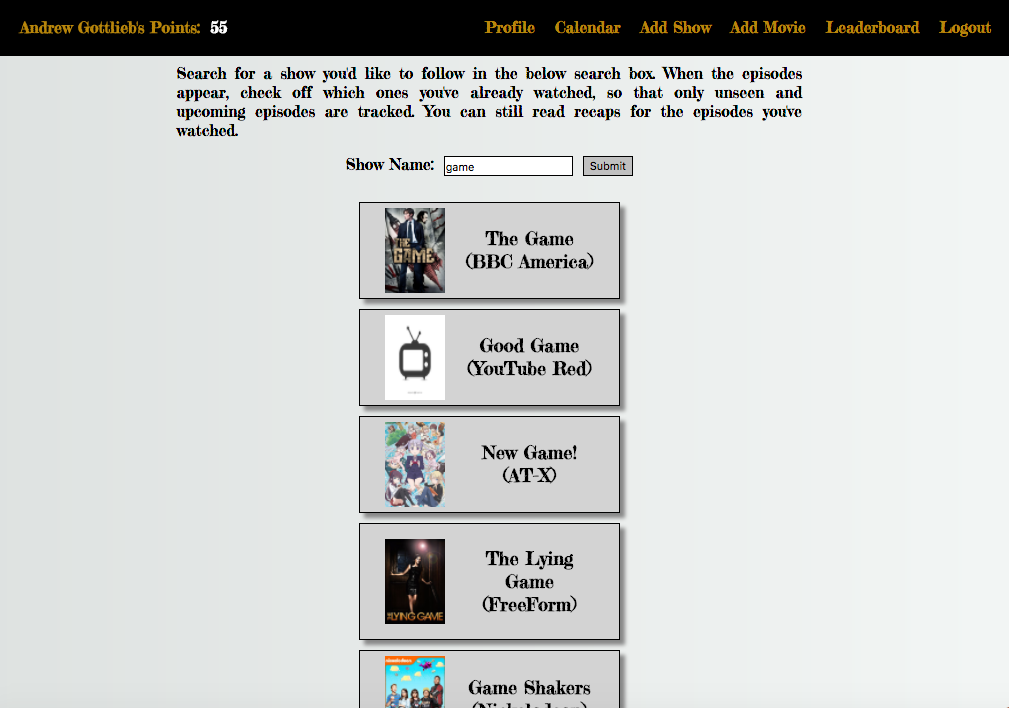
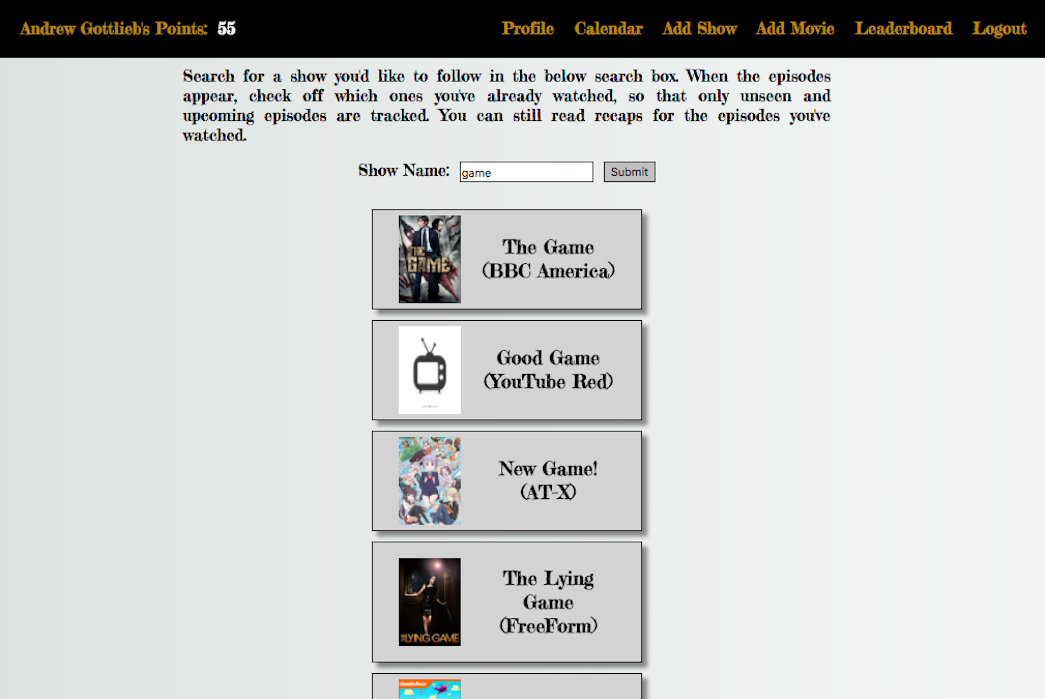
styled contact section and adjusted project image sizes

Changed region(s): [[0.338, 0.2103, 0.6452, 1.0], [0.0, 0.03, 1.0, 0.2103]]

diff --git a/index.html b/index.html
@@ -105,11 +105,11 @@
         <br/>
         <br/>
         <h1 class="projects-title">PROJECTS</h1>
-        <h2 class="projectsSubHeading">(Hover over image for more info)</h2>
+        <h2 class="projectsSubHeading">(Click image for more info)</h2>
         <div class="row">
-            <div class="project" id="mediaddict">
+            <div class="project">
                 <div class="imagebox">
-                    <img src="./images/mediaddict.png">
+                    <img src="./images/mediaddict.png" id="mediaddict">
                 </div>
                 <h3>MEDIADDICT</h3>
                 <div class="project-links">
@@ -117,9 +117,9 @@
                     <a href="http://mediaddict.surge.sh"><img src="./images/link.png"></a>
                 </div>
             </div>
-            <div class="project" id="pels">
+            <div class="project">
                 <div class="imagebox">
-                    <img src="./images/pels.png">
+                    <img src="./images/pels.png" id="pels">
                 </div>
                 <h3>PELS PIES</h3>
                 <div class="project-links">
@@ -129,9 +129,9 @@
             </div>
         </div>
         <div class="row">
-            <div class="project" id="bandessentials">
+            <div class="project">
                 <div class="imagebox">
-                    <img src="./images/band.png">
+                    <img src="./images/band.png" id="bandessentials">
                 </div>
                 <h3>BAND ESSENTIALS</h3>
                 <div class="project-links">
@@ -139,9 +139,9 @@
                     <a href="https://bandessentials.herokuapp.com/"><img src="./images/link.png"></a>
                 </div>
             </div>
-            <div class="project" id="scrabble">
+            <div class="project">
                 <div class="imagebox">
-                    <img src="./images/scrabble.png">
+                    <img src="./images/scrabble.png" id="scrabble">
                 </div>
                 <h3>SCRABBLE</h3>
                 <div class="project-links">
@@ -158,7 +158,7 @@
         <br/>
         <br/>
         <br/>
-        <h1>CONTACT ME</h1>
+        <h1 class="contact-title">CONTACT ME</h1>
         <p class="smallText">Email: agottlie@gmail.com</p>
         <p class="smallText">Phone: 845-641-1004</p>
         <div class="social">

diff --git a/js/main.js b/js/main.js
@@ -1,4 +1,22 @@
 $(() => {
     console.log('js connected');
 
+    const mediapics = ["./images/mediaddict.png", "./images/twinpeaks.png", "./images/addshow.png", "./images/leaderboard.png"],
+    	pelspics = ["./images/pels.png", "./images/map.png", "./images/events.png", "./images/order.png"],
+    	bandpics = ["./images/band.png", "./images/mainpage.png", "./images/profile.png", "./images/explore.png"],
+    	scrabblepics = ["./images/scrabble.png", "./images/Instructions.png", "./images/inplay.png", "./images/Letters.png"];
+
+    let count = 0;
+    setInterval(function() {
+    	count++;
+    	if (count===4) {
+    		count=0;
+    	}
+    	$("#pels").attr("src", pelspics[count]);
+    	$("#mediaddict").attr("src", mediapics[count]);
+    	$("#bandessentials").attr("src", bandpics[count]);
+    	$("#scrabble").attr("src", scrabblepics[count]);
+
+    }, 1000);
+
 })

diff --git a/css/style.css b/css/style.css
@@ -38,7 +38,7 @@ body {
 }
 
 .name {
-    font-size: 25px;
+    font-size: 2vw;
     margin-left: 20px;
 }
 
@@ -49,7 +49,7 @@ body {
 li>a {
     text-decoration: none;
     color: gray;
-    font-size: 25px;
+    font-size: 2vw;
 }
 
 li {
@@ -180,7 +180,7 @@ li {
 }
 
 .project-links>a>img {
-	width: 30px;
+	width: 40px;
 	margin-bottom: 50px;
 }
 
@@ -188,3 +188,28 @@ li {
 	text-align: center;
 }
 
+
+/*------END PROJECTS-----------*/
+
+
+/*------------CONTACT-------------*/
+
+.contact-title {
+	text-align: center;
+}
+
+#contact>p {
+	text-align: center;
+}
+
+.social {
+	text-align: center;
+}
+
+.social>div {
+	display: inline-block;
+}
+
+.social>div>a>img {
+	width: 40px;
+}
